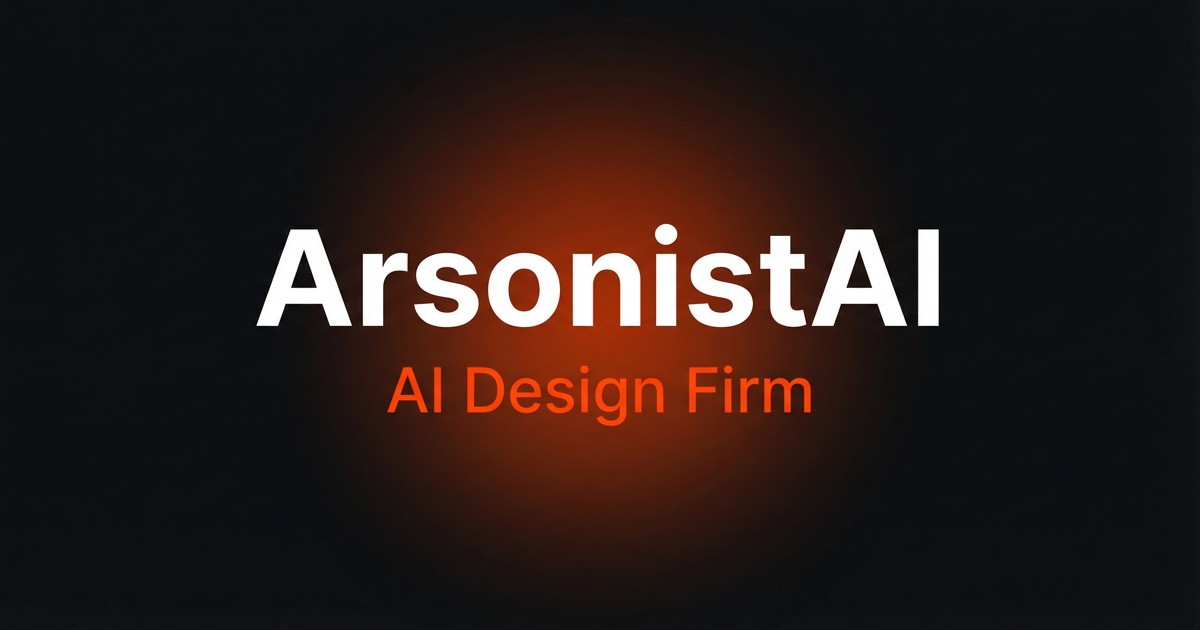
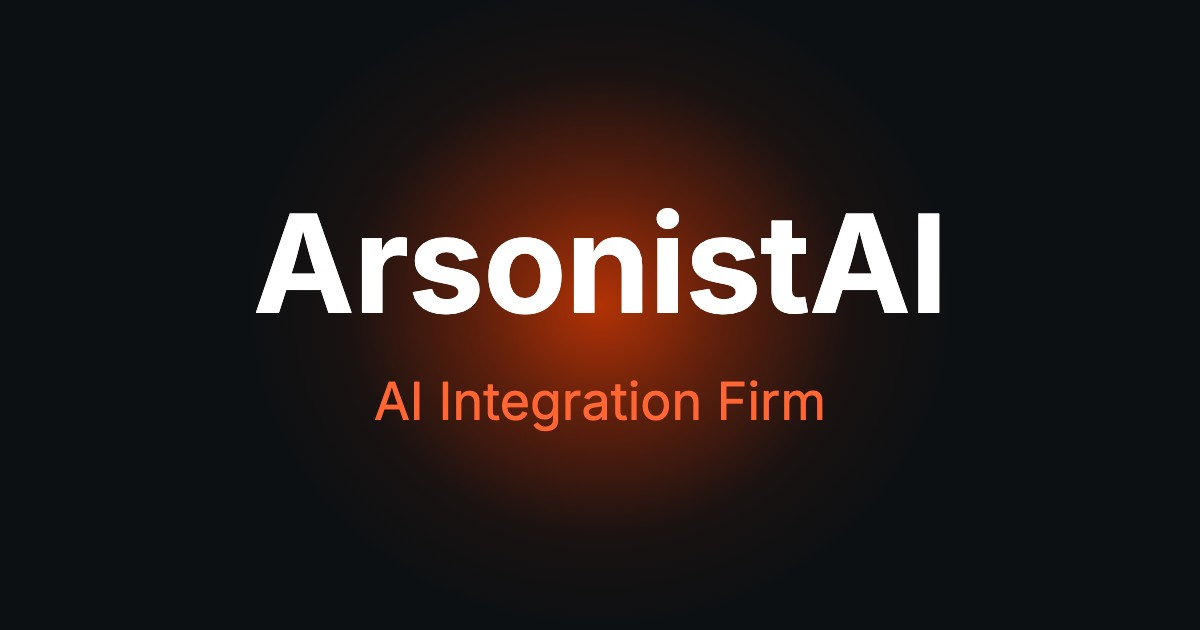
Reposition as an AI integration firm and retire the Product Design service
Updates titles, descriptions, keywords, structured data, the OG image and the manifest. /services/product-design redirects permanently to /services.

Changed region(s): [[0.2158, 0.3317, 0.8017, 0.8746]]

diff --git a/src/app/layout.tsx b/src/app/layout.tsx
@@ -4,25 +4,25 @@ import { SITE_URL as siteUrl, alternatesFor } from "@/lib/seo";
 export const metadata: Metadata = {
   metadataBase: new URL(siteUrl),
   title: {
-    default: "ArsonistAI — AI Design Firm | Human-Centered AI Solutions",
+    default: "ArsonistAI: AI Integration Firm | Human-Centered AI Solutions",
     template: "%s — ArsonistAI",
   },
   description:
-    "ArsonistAI is an AI design firm building accessible, scalable, and human-centered AI solutions. We offer AI-powered content generation, concept visualization, product design, and operations consulting.",
+    "ArsonistAI is an AI integration firm building accessible, scalable, and human-centered AI solutions. We offer custom MCP servers, Openclaw setup, Claude and Cursor training, content generation, and operations consulting.",
   keywords: [
-    "AI design firm",
-    "AI design agency",
+    "AI integration firm",
+    "AI integration services",
+    "AI integration consulting",
     "AI consulting",
-    "AI product design",
+    "MCP server development",
+    "Model Context Protocol",
+    "Claude Code training",
+    "Cursor training",
+    "Openclaw installation",
     "human-centered AI",
     "AI content generation",
-    "concept visualization",
-    "AI UX design",
-    "AI-powered design",
-    "artificial intelligence design",
     "AI strategy",
     "AI operations consulting",
-    "machine learning design",
     "AI solutions",
     "Arsonist AI",
   ],
@@ -38,24 +38,24 @@ export const metadata: Metadata = {
     alternateLocale: "es_ES",
     url: siteUrl,
     siteName: "ArsonistAI",
-    title: "ArsonistAI — AI Design Firm | Human-Centered AI Solutions",
+    title: "ArsonistAI: AI Integration Firm | Human-Centered AI Solutions",
     description:
-      "AI design firm specializing in content generation, concept visualization, product design, and operations consulting. Making AI accessible, scalable, and human-centered.",
+      "AI integration firm: custom MCP servers, Openclaw setup, Claude and Cursor training, and operations consulting. Making AI accessible, scalable, and human-centered.",
     images: [
       {
         url: "/images/og-image.jpg",
         width: 1200,
         height: 630,
         type: "image/jpeg",
-        alt: "ArsonistAI — AI Design Firm",
+        alt: "ArsonistAI: AI Integration Firm",
       },
     ],
   },
   twitter: {
     card: "summary_large_image",
-    title: "ArsonistAI — AI Design Firm | Human-Centered AI Solutions",
+    title: "ArsonistAI: AI Integration Firm | Human-Centered AI Solutions",
     description:
-      "AI design firm specializing in content generation, concept visualization, product design, and operations consulting.",
+      "AI integration firm: custom MCP servers, Openclaw setup, Claude and Cursor training, and operations consulting.",
     images: ["/images/og-image.jpg"],
   },
   // `/` redirects to `/en`, so the default canonical must be the locale root,

diff --git a/src/content/posts.ts b/src/content/posts.ts
@@ -787,7 +787,7 @@ No, it complements them. The canvas operates at the layer just above execution t
 
 ## Get Started
 
-The Lean Product Canvas is available as an interactive Figma and FigJam template. If you'd like support running your team through it, [our product design services](/services) are built around exactly this kind of collaborative strategy work, whether that means facilitating the first session with your team or helping translate the canvas into an ongoing part of how you plan and ship.`,
+The Lean Product Canvas is available as an interactive Figma and FigJam template, so your team can fill it in together during the first planning session and keep it open as an ongoing part of how you plan and ship.`,
       es: `Cuando nos asociamos con dos de las voces más influyentes del pensamiento moderno de producto, Jeff Gothelf y Josh Seiden, coautores de Lean UX, Sense & Respond y Who Does What By How Much?, reconocimos la oportunidad de colaborar en algo que podía tener un impacto real en cómo los equipos de producto trabajan, se alinean y construyen en todo el mundo.
 
 En el corazón de esta colaboración estaba su visión: llevar el recién evolucionado [Lean Product Canvas](https://jeffgothelf.com/blog/the-lean-product-canvas/), sucesor del ampliamente usado [Lean UX Canvas](https://leanuxbook.com/), a un formato digital moderno, flexible y completamente interactivo.
@@ -861,7 +861,7 @@ No, las complementa. El canvas opera en la capa justo por encima de las herramie
 
 ## Empieza ahora
 
-El Lean Product Canvas está disponible como plantilla interactiva de Figma y FigJam. Si quieres apoyo para guiar a tu equipo a través de él, [nuestros servicios de diseño de producto](/services) están construidos exactamente en torno a este tipo de trabajo colaborativo de estrategia, ya sea facilitando la primera sesión con tu equipo o ayudando a convertir el canvas en una parte continua de cómo planeas y lanzas.`,
+El Lean Product Canvas está disponible como plantilla interactiva de Figma y FigJam, para que tu equipo pueda completarlo en conjunto durante la primera sesión de planificación y mantenerlo como una parte continua de cómo planeas y lanzas.`,
     },
   },
   {

diff --git a/src/components/ServiceCard.tsx b/src/components/ServiceCard.tsx
@@ -23,11 +23,6 @@ const icons: Record<string, React.ReactNode> = {
       <path strokeLinecap="round" strokeLinejoin="round" d="M3.75 13.5l10.5-11.25L12 10.5h8.25L9.75 21.75 12 13.5H3.75z" />
     </svg>
   ),
-  "pen-tool": (
-    <svg xmlns="http://www.w3.org/2000/svg" className="w-6 h-6" fill="none" viewBox="0 0 24 24" stroke="currentColor" strokeWidth={1.5}>
-      <path strokeLinecap="round" strokeLinejoin="round" d="m16.862 4.487 1.687-1.688a1.875 1.875 0 1 1 2.652 2.652L10.582 16.07a4.5 4.5 0 0 1-1.897 1.13L6 18l.8-2.685a4.5 4.5 0 0 1 1.13-1.897l8.932-8.931Zm0 0L19.5 7.125M18 14v4.75A2.25 2.25 0 0 1 15.75 21H5.25A2.25 2.25 0 0 1 3 18.75V8.25A2.25 2.25 0 0 1 5.25 6H10" />
-    </svg>
-  ),
   settings: (
     <svg xmlns="http://www.w3.org/2000/svg" className="w-6 h-6" fill="none" viewBox="0 0 24 24" stroke="currentColor" strokeWidth={1.5}>
       <path strokeLinecap="round" strokeLinejoin="round" d="M9.594 3.94c.09-.542.56-.94 1.11-.94h2.593c.55 0 1.02.398 1.11.94l.213 1.281c.063.374.313.686.645.87.074.04.147.083.22.127.325.196.72.257 1.075.124l1.217-.456a1.125 1.125 0 0 1 1.37.49l1.296 2.247a1.125 1.125 0 0 1-.26 1.431l-1.003.827c-.293.241-.438.613-.43.992a7.723 7.723 0 0 1 0 .255c-.008.378.137.75.43.991l1.004.827c.424.35.534.955.26 1.43l-1.298 2.247a1.125 1.125 0 0 1-1.369.491l-1.217-.456c-.355-.133-.75-.072-1.076.124a6.47 6.47 0 0 1-.22.128c-.331.183-.581.495-.644.869l-.213 1.281c-.09.543-.56.941-1.11.941h-2.594c-.55 0-1.019-.398-1.11-.94l-.213-1.281c-.062-.374-.312-.686-.644-.87a6.52 6.52 0 0 1-.22-.127c-.325-.196-.72-.257-1.076-.124l-1.217.456a1.125 1.125 0 0 1-1.369-.49l-1.297-2.247a1.125 1.125 0 0 1 .26-1.431l1.004-.827c.292-.24.437-.613.43-.991a6.932 6.932 0 0 1 0-.255c.007-.38-.138-.751-.43-.992l-1.004-.827a1.125 1.125 0 0 1-.26-1.43l1.297-2.247a1.125 1.125 0 0 1 1.37-.491l1.216.456c.356.133.751.072 1.076-.124.072-.044.146-.086.22-.128.332-.183.582-.495.644-.869l.214-1.28Z" />

diff --git a/src/app/[locale]/layout.tsx b/src/app/[locale]/layout.tsx
@@ -51,7 +51,7 @@ export default async function LocaleLayout({
     },
     image: `${SITE_URL}/images/og-image.jpg`,
     description:
-      "AI design firm building accessible, scalable, and human-centered AI solutions.",
+      "AI integration firm building accessible, scalable, and human-centered AI solutions.",
     email: "hello@arsonistai.com",
     contactPoint: {
       "@type": "ContactPoint",
@@ -61,13 +61,14 @@ export default async function LocaleLayout({
     },
     areaServed: "Worldwide",
     serviceType: [
-      "AI Design",
+      "AI Integration",
       "AI Consulting",
-      "Product Design",
+      "Custom MCP Server Development",
+      "Openclaw Installation",
+      "Claude and Cursor Training",
       "Content Generation",
       "Concept Visualization",
       "Operations Consulting",
-      "Custom MCP Server Development",
     ],
     // Keep in sync with the social links in Footer.tsx.
     sameAs: [
@@ -76,9 +77,9 @@ export default async function LocaleLayout({
     ],
     knowsAbout: [
       "Artificial Intelligence",
-      "AI Design",
-      "Product Design",
-      "UX Design",
+      "AI Integration",
+      "AI Agents",
+      "Model Context Protocol",
       "AI Consulting",
       "Content Generation",
       "Concept Visualization",
@@ -94,7 +95,7 @@ export default async function LocaleLayout({
     publisher: { "@id": ORG_ID },
     inLanguage: [locale === "es" ? "es" : "en"],
     description:
-      "AI design firm specializing in content generation, concept visualization, product design, and operations consulting.",
+      "AI integration firm: custom MCP servers, Openclaw setup, Claude and Cursor training, and operations consulting.",
   };
 
   return (

diff --git a/next.config.ts b/next.config.ts
@@ -47,6 +47,16 @@ const nextConfig: NextConfig = {
     // Retired services keep their indexed URLs pointing somewhere useful.
     return [
       {
+        source: "/:locale(en|es)/services/product-design",
+        destination: "/:locale/services",
+        permanent: true,
+      },
+      {
+        source: "/services/product-design",
+        destination: "/en/services",
+        permanent: true,
+      },
+      {
         source: "/:locale(en|es)/work/moneyball-ats",
         destination: "/:locale/work/evidence-based-ats",
         permanent: true,

diff --git a/src/content/services.ts b/src/content/services.ts
@@ -45,14 +45,6 @@ export const services: Service[] = [
     image: "/images/services/phone.png",
   },
   {
-    id: "product-design",
-    titleKey: "services.productDesign.title",
-    descriptionKey: "services.productDesign.short",
-    longDescriptionKey: "services.productDesign.long",
-    icon: "pen-tool",
-    image: "/images/services/product.png",
-  },
-  {
     id: "operations-consulting",
     titleKey: "services.operationsConsulting.title",
     descriptionKey: "services.operationsConsulting.short",

diff --git a/src/app/[locale]/page.tsx b/src/app/[locale]/page.tsx
@@ -23,7 +23,8 @@ export async function generateMetadata({
   const { locale } = await params;
   const t = await getTranslations({ locale, namespace: "meta.home" });
   return {
-    title: t("title"),
+    // The home title already leads with the brand, so skip the template's brand suffix.
+    title: { absolute: t("title") },
     description: t("description"),
     openGraph: openGraphFor({
       locale,

diff --git a/src/lib/seo.ts b/src/lib/seo.ts
@@ -40,7 +40,7 @@ export const OG_IMAGE = {
   width: 1200,
   height: 630,
   type: "image/jpeg",
-  alt: "ArsonistAI — AI Design Firm",
+  alt: "ArsonistAI: AI Integration Firm",
 };
 
 type OpenGraph = NonNullable<Metadata["openGraph"]>;

diff --git a/docs/SEO_IMPLEMENTATIONS.md b/docs/SEO_IMPLEMENTATIONS.md
@@ -11,7 +11,7 @@ This document lists all SEO work implemented on the site and can be used as a re
 - **metadataBase** — Set to the production URL (`https://arsonistai.com`) so relative URLs in metadata resolve correctly.
 - **Title** — Default title and template (`%s — ArsonistAI`) for consistent branding in tabs and search results.
 - **Description** — Single, keyword-rich default description for the site.
-- **Keywords** — Array of target phrases (e.g. "AI design firm", "AI design agency", "AI consulting") for discovery.
+- **Keywords** — Array of target phrases (e.g. "AI integration firm", "AI integration services", "AI consulting"; repositioned from "AI design firm" in October 2026) for discovery.
 - **Authors / creator / publisher** — Set to the brand for attribution.
 - **Icons** — Favicon path for browser tabs and bookmarks.
 - **Open Graph** — Default `type`, `locale`, `alternateLocale`, `url`, `siteName`, `title`, `description`, and `images` (1200×630 OG image) for social sharing.
@@ -122,7 +122,7 @@ This document lists all SEO work implemented on the site and can be used as a re
 ## 7. Open Graph & social
 
 - **Default OG/Twitter** — Set in root `layout.tsx` (title, description, image).
-- **OG image** — `public/images/og-image.jpg` (1200×630, 88 KB), branded (e.g. logo + “AI Design Firm”), dark theme and accent color.
+- **OG image** — `public/images/og-image.jpg` (1200×630, 40 KB), branded (logo + “AI Integration Firm”, regenerated October 2026), dark theme and accent color.
 - **Per-page OG** — Optional overrides in each page’s `generateMetadata` (e.g. `openGraph.title`, `openGraph.description`) using translated strings.
 
 **Best practice:** Provide one high-quality OG image per site or section; use locale-aware titles/descriptions for shared links.
@@ -143,7 +143,7 @@ This document lists all SEO work implemented on the site and can be used as a re
 
 ## 9. Visible keyword content
 
-- **Homepage hero** — The phrase “AI design firm” (and Spanish equivalent) appears in the visible hero tagline, not only in metadata (e.g. “Your AI design firm — scale your business with AI” / “Tu firma de diseño con IA — escala tu negocio con IA”).
+- **Homepage hero** — The `home.heroTagline` message (“Your AI integration firm. Scale your business with AI.” / “Tu firma de integración de IA. Escala tu negocio con IA.”) is not rendered anywhere as of October 2026; the visible hero shows `heroSubtitle` instead.
 
 **Best practice:** Include primary target phrases in the main body content (e.g. above the fold) so rankings and snippets align with what users see.
 
@@ -261,9 +261,9 @@ Every page setting `openGraph: { title, description }` was dropping the site-wid
 ### 19. Sitemap corrections
 
 - `/case-studies` was missing entirely and is now included.
-- `/services/[slug]` routes added (10 services x 2 locales).
+- `/services/[slug]` routes added (9 services x 2 locales; Product Design was retired in October 2026 and its URL redirects to `/services`).
 - `lastModified` used `new Date()`, marking the whole site as changed on every deploy. It now reads real per-entry dates from `staticPages`, `post.lastModified`, and `CaseStudy.lastModified`.
-- All 58 entries carry `x-default` alternates.
+- All 56 entries carry `x-default` alternates.
 
 ### 20. Structured data
 
@@ -296,7 +296,7 @@ Every page setting `openGraph: { title, description }` was dropping the site-wid
 
 ### 25. Service detail pages
 
-`/services` was a single URL carrying eight services (ten as of October 2026), so no page could rank for any individual service term. Each service now has its own indexable route at `/services/[slug]` with unique metadata, an `h1`, a three-step process section, a deliverables list, four FAQs, `Service` and `FAQPage` schema, and links to sibling services. `/services` became the hub linking to all of them.
+`/services` was a single URL carrying eight services (nine as of October 2026), so no page could rank for any individual service term. Each service now has its own indexable route at `/services/[slug]` with unique metadata, an `h1`, a three-step process section, a deliverables list, four FAQs, `Service` and `FAQPage` schema, and links to sibling services. `/services` became the hub linking to all of them.
 
 ---
 
